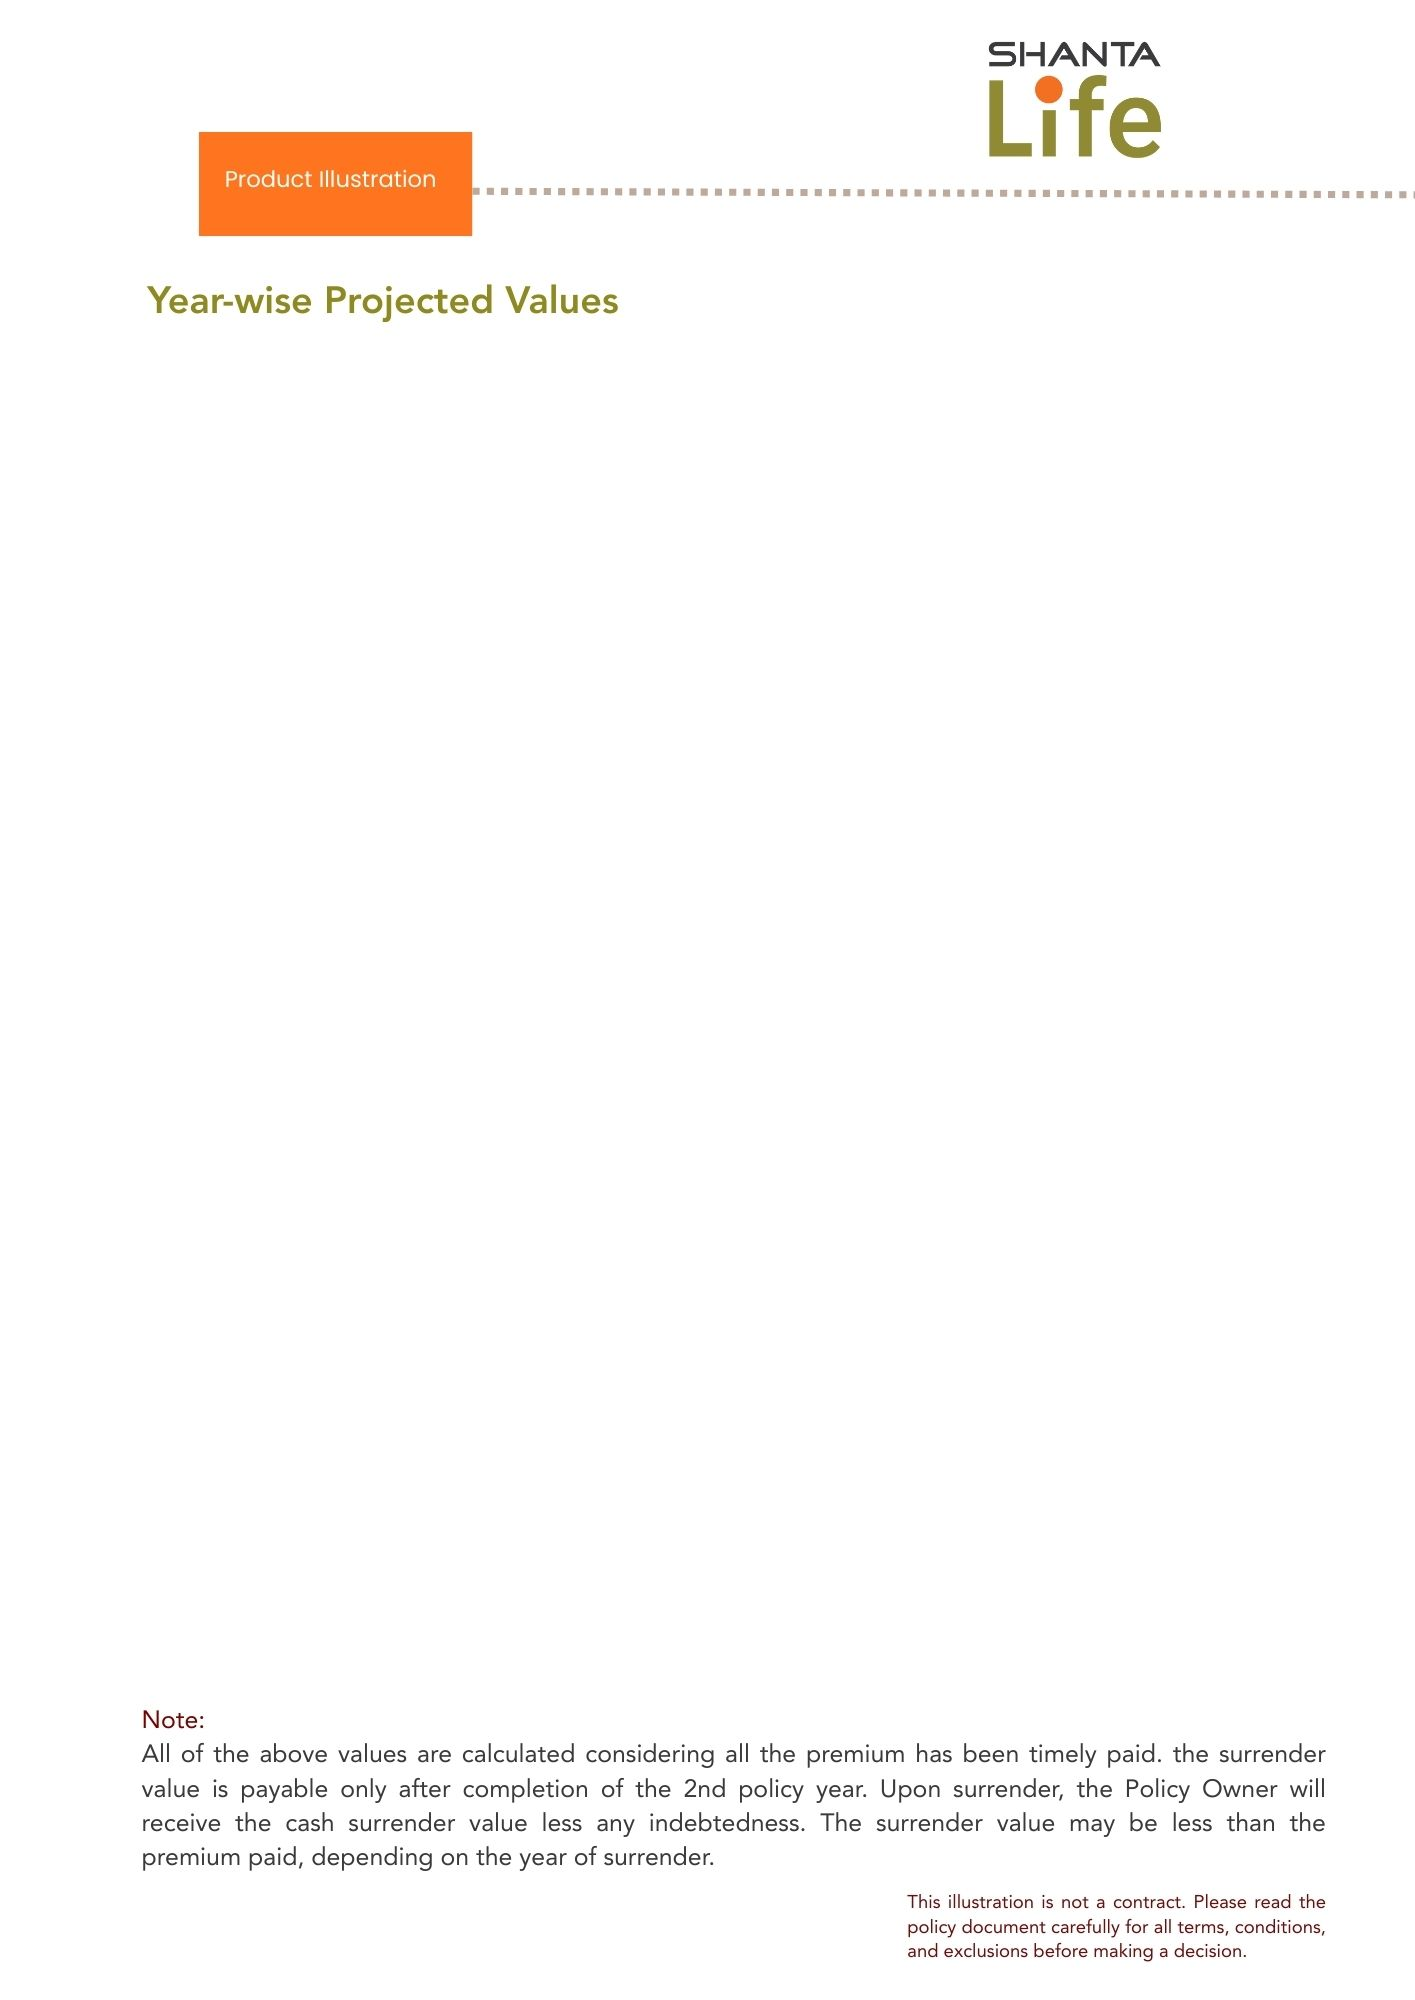
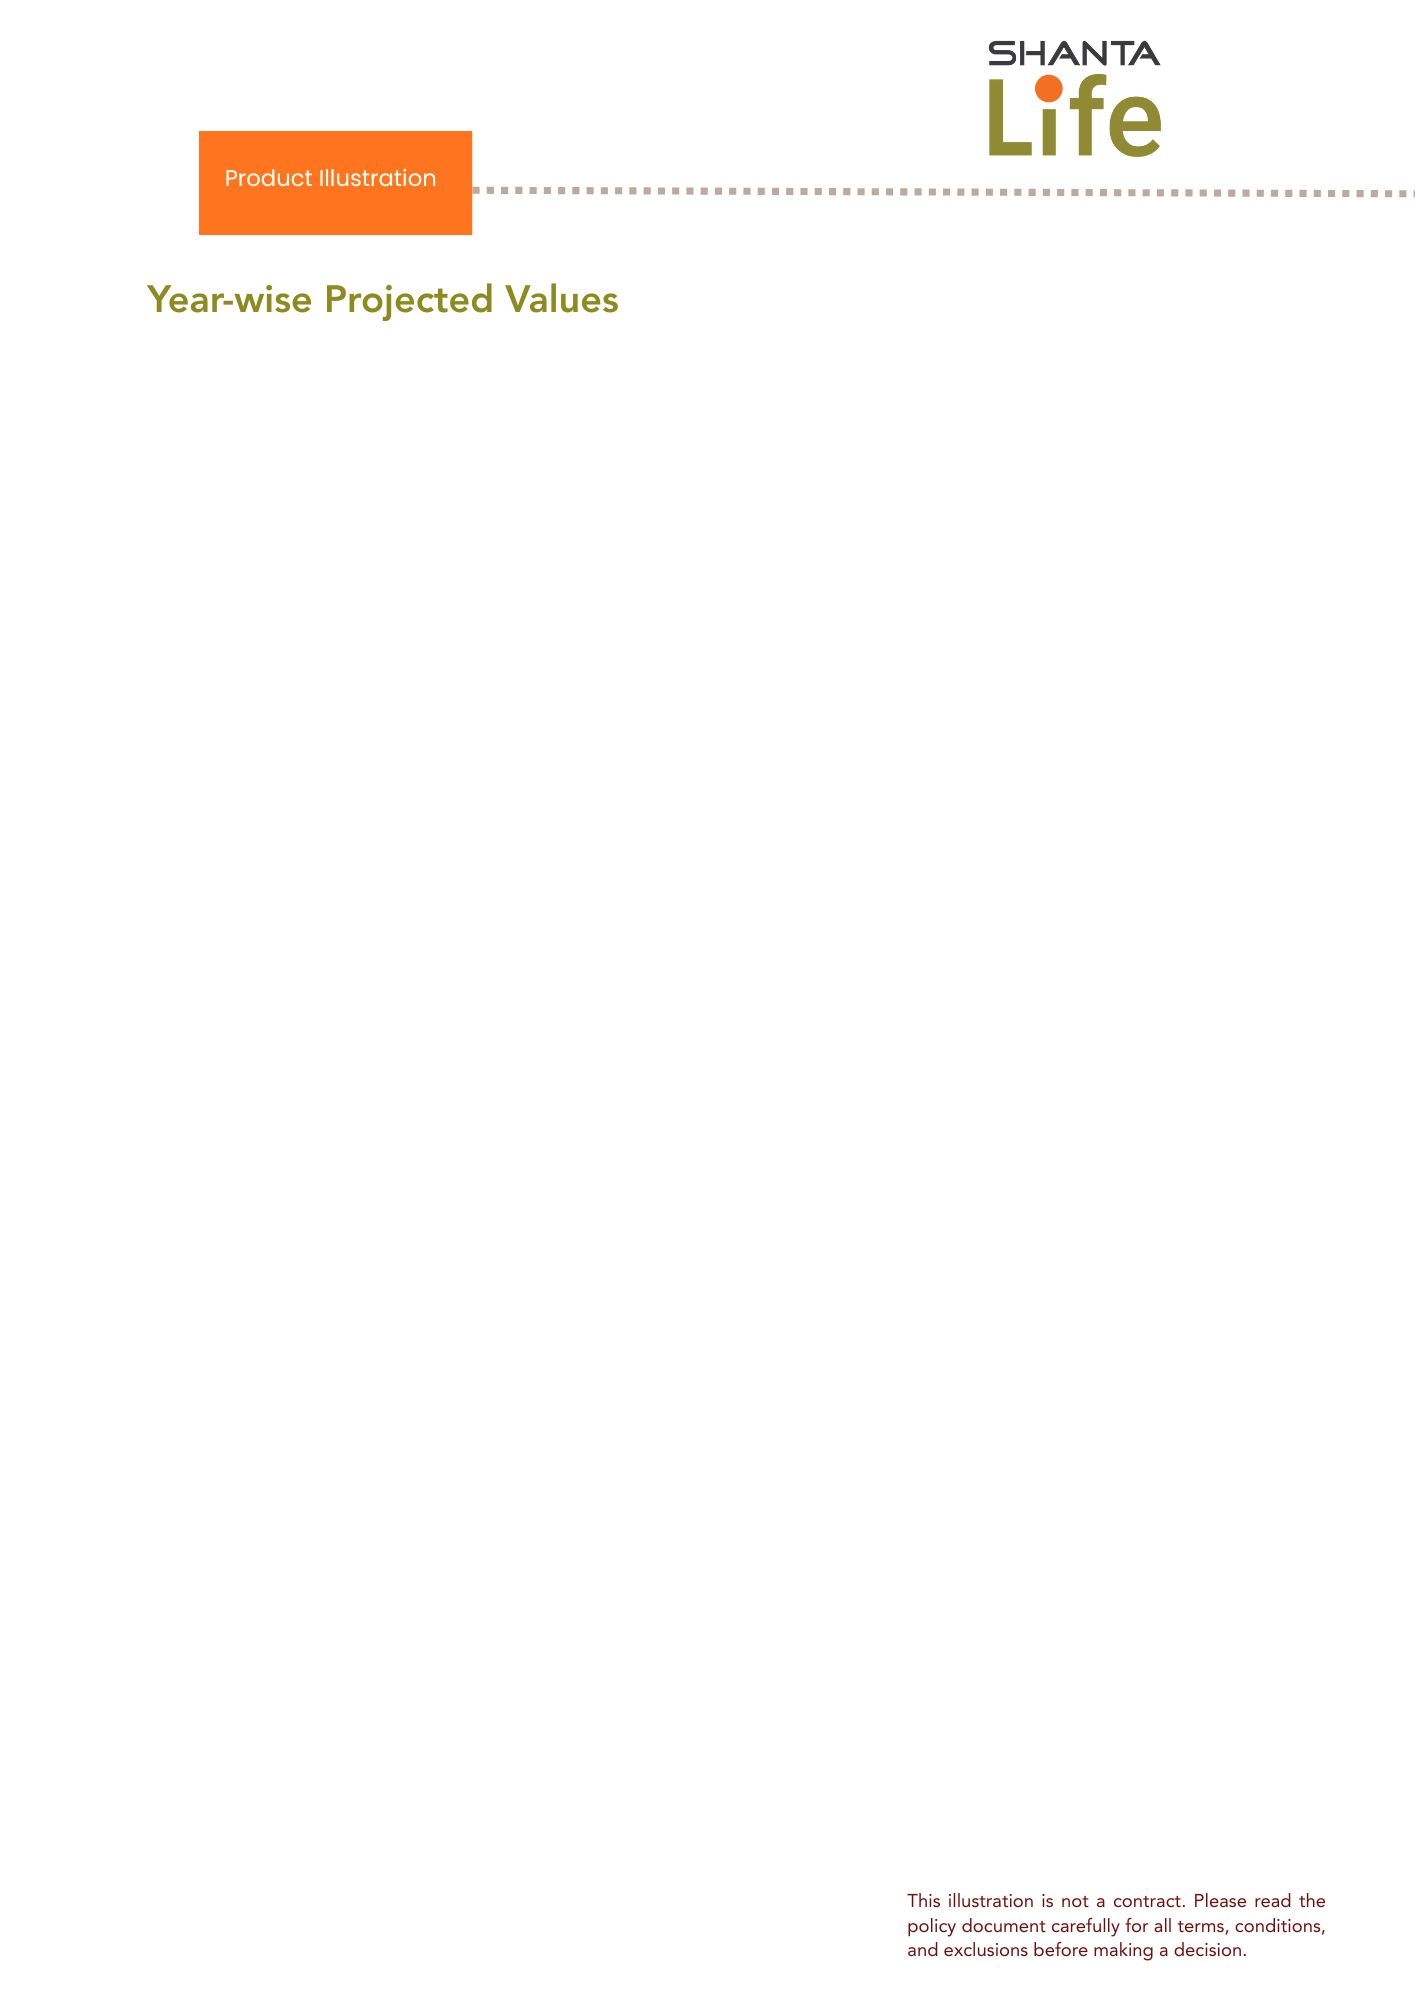
pdf related new adjustment adjusted

diff --git a/src/utils/pdf/generateQuotePdf.ts b/src/utils/pdf/generateQuotePdf.ts
@@ -57,6 +57,7 @@ export type IllustrationData = {
     importantTerms?: string[]
     maturityBenefit?: string[]
     deathBenefit?: string[]
+    note?: string[]
     brocheureLink?: string | null
   }
   surrenderPaidup?: SurrenderPaidUpType[]
@@ -758,7 +759,13 @@ function makeFakeProjectedRows(
   annualValue: number,
 ): ProjectedRow[] {
   // simple fake numbers (you can swap format later)
-  const fmt = (n: number) => `BDT ${n.toLocaleString('en-US')}`
+  const fmt = (n: number) => {
+    if (n !== 0) {
+      return `BDT ${Math.ceil(n).toLocaleString('en-US')}`
+    } else {
+      return `-`
+    }
+  }
 
   const rows: ProjectedRow[] = []
   for (let i = 0; i < data?.length; i++) {
@@ -766,7 +773,7 @@ function makeFakeProjectedRows(
     const annual = Math.ceil(annualValue)
     const death = sumAssured
     const surrender = data[i]?.surrender_amount
-    const maturity = sumAssured
+    const maturity = i === data?.length - 1 ? sumAssured : 0
     const paidup = data[i]?.reduced_paid_up_benefit
 
     rows.push({
@@ -1138,6 +1145,69 @@ function generateDeathBenefitAmount(planCode: number, amount: number): number {
   return 0
 }
 
+function drawNumberedListFromTop(
+  page: any,
+  height: number,
+  items: string[],
+  args: {
+    x: number
+    topFromTop: number
+    maxW: number
+    font: PDFFont
+    size: number
+    color: ReturnType<typeof rgb>
+    lineHeight?: number
+    itemGap?: number
+    indent?: number // fallback indent for wrapped lines
+  },
+) {
+  const lineH = args.lineHeight ?? args.size * 1.35
+  const gap = args.itemGap ?? args.size * 0.35
+
+  let t = args.topFromTop
+
+  for (const rawItem of items) {
+    const raw = safeLatin(rawItem ?? '').trim()
+    if (!raw) continue
+
+    // ✅ detect "1." / "2)" / "3," etc.
+    const m = raw.match(/^(\d+[\.\),])\s*(.*)$/)
+    const prefix = m ? m[1] + ' ' : ''
+    const body = m ? m[2] : raw
+
+    // measure prefix width, so wrapped lines align after it
+    const prefixW = args.font.widthOfTextAtSize(prefix, args.size)
+    const hangingX = args.x + (prefixW || args.indent || 18)
+    const firstLineMaxW = Math.max(1, args.maxW - (prefixW || args.indent || 18))
+    const nextLineMaxW = Math.max(1, args.maxW - (prefixW || args.indent || 18))
+
+    // wrap body (not including prefix)
+    const lines = wrapByWidth(body, args.font, args.size, firstLineMaxW)
+
+    // first line: draw prefix + first body line
+    drawTextFromTop(page, height, prefix + (lines[0] ?? ''), args.x, t, {
+      font: args.font,
+      size: args.size,
+      color: args.color,
+    })
+    t += lineH
+
+    // continuation lines aligned after prefix
+    for (let i = 1; i < lines.length; i++) {
+      drawTextFromTop(page, height, lines[i], hangingX, t, {
+        font: args.font,
+        size: args.size,
+        color: args.color,
+      })
+      t += lineH
+    }
+
+    t += gap
+  }
+
+  return t
+}
+
 export async function generateQuotePdf(data: IllustrationData) {
   const pdfDoc = await PDFDocument.create()
   pdfDoc.registerFontkit(fontkit)
@@ -1160,6 +1230,7 @@ export async function generateQuotePdf(data: IllustrationData) {
     gray: rgb(0.35, 0.35, 0.35),
     white: rgb(1, 1, 1),
     brown: rgb(129 / 255, 87 / 255, 62 / 255), // #81573e ✅
+    ink: hexToRgb01('#8B2D2D'),
   }
 
   // Unified draw helper (choose font + color per call)
@@ -1977,7 +2048,7 @@ export async function generateQuotePdf(data: IllustrationData) {
       let rows: ProjectedRow[] = []
       let value: number = 0
 
-      const totalValue = data.premiumBreakdown?.totalPremium
+      const totalValue = data.premiumBreakdown?.basicPremium
       const paymentId = data.meta?.payment?.id
 
       if (paymentId === 1) {
@@ -2030,6 +2101,47 @@ export async function generateQuotePdf(data: IllustrationData) {
         rows,
         fonts,
       })
+
+      // -------------------------------------------------------
+      // ✅ NOTE block (below table, bottom-left) - Page 5
+      // -------------------------------------------------------
+      {
+        const noteItems: string[] = data.page4?.note ?? []
+
+        if (noteItems.length > 0) {
+          const NOTE = {
+            x: 160, // aligns with table left
+            topFromTop: 1680, // ✅ tuned for the screenshot (adjust if needed)
+            maxW: 1100, // note block width (left side)
+            titleSize: 26,
+            bodySize: 22,
+            color: COLORS.black, // same ink color
+            lineHeight: 26,
+          }
+
+          // "Note:" title
+          drawTextFromTop(page, height, 'Note:', NOTE.x, NOTE.topFromTop, {
+            font: fonts.bold,
+            size: NOTE.titleSize,
+            color: COLORS.ink,
+          })
+
+          // list starts under title
+          const listTop = NOTE.topFromTop + 32
+
+          drawNumberedListFromTop(page, height, noteItems, {
+            x: NOTE.x,
+            topFromTop: listTop,
+            maxW: NOTE.maxW,
+            font: fonts.regular,
+            size: NOTE.bodySize,
+            color: NOTE.color,
+            lineHeight: NOTE.lineHeight,
+            itemGap: 6,
+            indent: 26,
+          })
+        }
+      }
     }
 
     // -------- Page 6: QR code generation and other data --------

diff --git a/src/components/custom/shared/GlobalButton.tsx b/src/components/custom/shared/GlobalButton.tsx
@@ -7,7 +7,7 @@ type Props = {
   text?: string
   className?: string
   children?: React.ReactNode
-  size?: 'small' | 'medium' | 'large' | 'extraLarge'
+  size?: 'extraSmall' | 'small' | 'medium' | 'large' | 'extraLarge'
 } & React.ButtonHTMLAttributes<HTMLButtonElement>
 
 function GlobalButton({
@@ -20,50 +20,65 @@ function GlobalButton({
 }: Props) {
   // ✅ no fixed widths; just padding + height + font-size
   // const sizeStyles =
-  //   size === 'medium'
+  //   size === 'small'
   //     ? `
-  //       px-4 md:px-6 lg:px-7 xl:px-8 2xl:px-9
-  //       h-[33px] md:h-[42px] lg:h-[45px] xl:h-[48px] 2xl:h-[50px]
-  //       text-[10px] sm:text-[12px] md:text-[14px] lg:text-[15px] 2xl:text-[16px]
-  //       rounded-sm lg:rounded-md
-  //     `
-  //     : size === 'small'
-  //       ? `
   //       px-3 md:px-4 lg:px-5 xl:px-5 2xl:px-6
-  //       h-[28px] md:h-[34px] lg:h-[38px] xl:h-[40px] 2xl:h-[42px]
+  //       h-[28px] md:h-[30px] lg:h-[34px] xl:h-[40px] 2xl:h-[42px]
   //       text-[10px] sm:text-[11px] md:text-[12px] lg:text-[13px] 2xl:text-[14px]
   //       rounded-sm lg:rounded-md
   //     `
-  //       : `
+  //     : size === 'medium'
+  //       ? `
+  //       px-4 md:px-6 lg:px-7 xl:px-8 2xl:px-9
+  //       h-[33px] md:h-[36px] lg:h-[45px] xl:h-[48px] 2xl:h-[50px]
+  //       text-[10px] sm:text-[12px] md:text-[14px] lg:text-[15px] 2xl:text-[16px]
+  //       rounded-sm lg:rounded-md
+  //     `
+  //       : size === 'large'
+  //         ? `
   //       px-5 md:px-7 lg:px-8 xl:px-10 2xl:px-12
-  //       h-[36px] md:h-[45px] lg:h-[50px] xl:h-[55px] 2xl:h-[60px]
+  //       h-[36px] md:h-[40px] lg:h-[50px] xl:h-[55px] 2xl:h-[60px]
   //       text-[12px] sm:text-[13px] md:text-[15px] lg:text-[16px] 2xl:text-[18px]
   //       rounded-sm lg:rounded-md
   //     `
+  //         : `
+  //       px-7 md:px-8 lg:px-11 xl:px-14 2xl:px-20
+  //       h-[36px] md:h-[40px] lg:h-[50px] xl:h-[55px] 2xl:h-[60px]
+  //       text-[12px] sm:text-[13px] md:text-[15px] lg:text-[16px] 2xl:text-[18px]
+  //       rounded-sm lg:rounded-md
+  //     ` // extraLarge
 
+  // ✅ no fixed widths; just padding + height + font-size
   const sizeStyles =
-    size === 'small'
+    size === 'extraSmall'
       ? `
+        px-2 md:px-3 lg:px-4 xl:px-4 2xl:px-5
+        h-[24px] md:h-[26px] lg:h-[28px] xl:h-[32px] 2xl:h-[34px]
+        text-[9px] sm:text-[10px] md:text-[11px] lg:text-[12px] 2xl:text-[13px]
+        rounded-sm lg:rounded-md
+      `
+      : size === 'small'
+        ? `
         px-3 md:px-4 lg:px-5 xl:px-5 2xl:px-6
         h-[28px] md:h-[30px] lg:h-[34px] xl:h-[40px] 2xl:h-[42px]
         text-[10px] sm:text-[11px] md:text-[12px] lg:text-[13px] 2xl:text-[14px]
         rounded-sm lg:rounded-md
       `
-      : size === 'medium'
-        ? `
+        : size === 'medium'
+          ? `
         px-4 md:px-6 lg:px-7 xl:px-8 2xl:px-9
         h-[33px] md:h-[36px] lg:h-[45px] xl:h-[48px] 2xl:h-[50px]
         text-[10px] sm:text-[12px] md:text-[14px] lg:text-[15px] 2xl:text-[16px]
         rounded-sm lg:rounded-md
       `
-        : size === 'large'
-          ? `
+          : size === 'large'
+            ? `
         px-5 md:px-7 lg:px-8 xl:px-10 2xl:px-12
         h-[36px] md:h-[40px] lg:h-[50px] xl:h-[55px] 2xl:h-[60px]
         text-[12px] sm:text-[13px] md:text-[15px] lg:text-[16px] 2xl:text-[18px]
         rounded-sm lg:rounded-md
       `
-          : `
+            : `
         px-7 md:px-8 lg:px-11 xl:px-14 2xl:px-20
         h-[36px] md:h-[40px] lg:h-[50px] xl:h-[55px] 2xl:h-[60px]
         text-[12px] sm:text-[13px] md:text-[15px] lg:text-[16px] 2xl:text-[18px]

diff --git a/src/components/custom/home/QuoteSection.tsx b/src/components/custom/home/QuoteSection.tsx
@@ -750,10 +750,11 @@ function QuoteSection({ data, footerData }: Props) {
     setPremiumBreakdownByMode(map)
   }, [apiResponse, ciSelection, isAccidentSelected])
 
-  console.log('formData inside parent', formData)
+  // console.log('formData inside parent', formData)
   // console.log('quoteMeta', quoteMeta)
   // console.log('apiResponse', apiResponse)
   // console.log('premiumBreakdownByMode', premiumBreakdownByMode)
+  // console.log('premiumBreakdown', premiumBreakdownByMode?.[confirmedPaymentMode])
 
   return (
     // mb-12 md:mb-24 lg:mb-32 xl:mb-[150px]
@@ -1098,6 +1099,32 @@ function QuoteSection({ data, footerData }: Props) {
                     </div>
                   )}
               </div>
+
+              {/* modal btn */}
+              {apiResponse &&
+                showApiResponse &&
+                (formData?.PlanCode === 6 ||
+                  formData?.PlanCode === 8 ||
+                  formData?.PlanCode === 9 ||
+                  formData?.PlanCode === 10) && (
+                  <div className="flex justify-center items-center mb-2">
+                    <GlobalButton
+                      variant="secondary"
+                      size="extraSmall"
+                      onClick={() => setPdfOpen(true)}
+                    >
+                      <LocalizedString en="Get A Quote Now" bn="আপনার প্রিমিয়াম ক্যালকুলেট করুন" />
+                    </GlobalButton>
+
+                    {pdfRequestBody && (
+                      <QuotePdfModal
+                        open={pdfOpen}
+                        onOpenChange={setPdfOpen}
+                        requestBody={pdfRequestBody}
+                      />
+                    )}
+                  </div>
+                )}
             </div>
           )}
 
@@ -1137,27 +1164,6 @@ function QuoteSection({ data, footerData }: Props) {
           />
         </div>
       </div>
-
-      {apiResponse &&
-        showApiResponse &&
-        (formData?.PlanCode === 6 ||
-          formData?.PlanCode === 8 ||
-          formData?.PlanCode === 9 ||
-          formData?.PlanCode === 10) && (
-          <div className="flex justify-center items-center mt-4">
-            <GlobalButton variant="outline" onClick={() => setPdfOpen(true)}>
-              <LocalizedString en="Get A Quote Now" bn="আপনার প্রিমিয়াম ক্যালকুলেট করুন" />
-            </GlobalButton>
-
-            {pdfRequestBody && (
-              <QuotePdfModal
-                open={pdfOpen}
-                onOpenChange={setPdfOpen}
-                requestBody={pdfRequestBody}
-              />
-            )}
-          </div>
-        )}
 
       {/* bg image */}
       {/* left rotate image */}

diff --git a/src/app/(payload)/api/quote-pdf/route.ts b/src/app/(payload)/api/quote-pdf/route.ts
@@ -105,6 +105,7 @@ type ProductFeatureRow = {
   maturity_benefit?: string | null
   death_benefit?: string | null
   brocheure_link?: string | null
+  note?: string | null
 }
 
 export type Page4Data = {
@@ -113,6 +114,7 @@ export type Page4Data = {
   importantTerms: string[]
   maturityBenefit: string[]
   deathBenefit: string[]
+  note?: string[]
   brocheureLink: string | null
 }
 
@@ -122,6 +124,7 @@ const emptyPage4 = (): Page4Data => ({
   importantTerms: [],
   maturityBenefit: [],
   deathBenefit: [],
+  note: [],
   brocheureLink: null,
 })
 
@@ -147,6 +150,7 @@ async function fetchPlanFeatures(planCode: number): Promise<Page4Data> {
       importantTerms: cleanStrings(rows?.map((r) => r?.td)),
       maturityBenefit: cleanStrings(rows?.map((r) => r?.maturity_benefit)),
       deathBenefit: cleanStrings(rows?.map((r) => r?.death_benefit)),
+      note: cleanStrings(rows?.map((r) => r?.note)),
       brocheureLink: rows?.find((r) => r?.brocheure_link)?.brocheure_link || null,
     }
   } catch {
